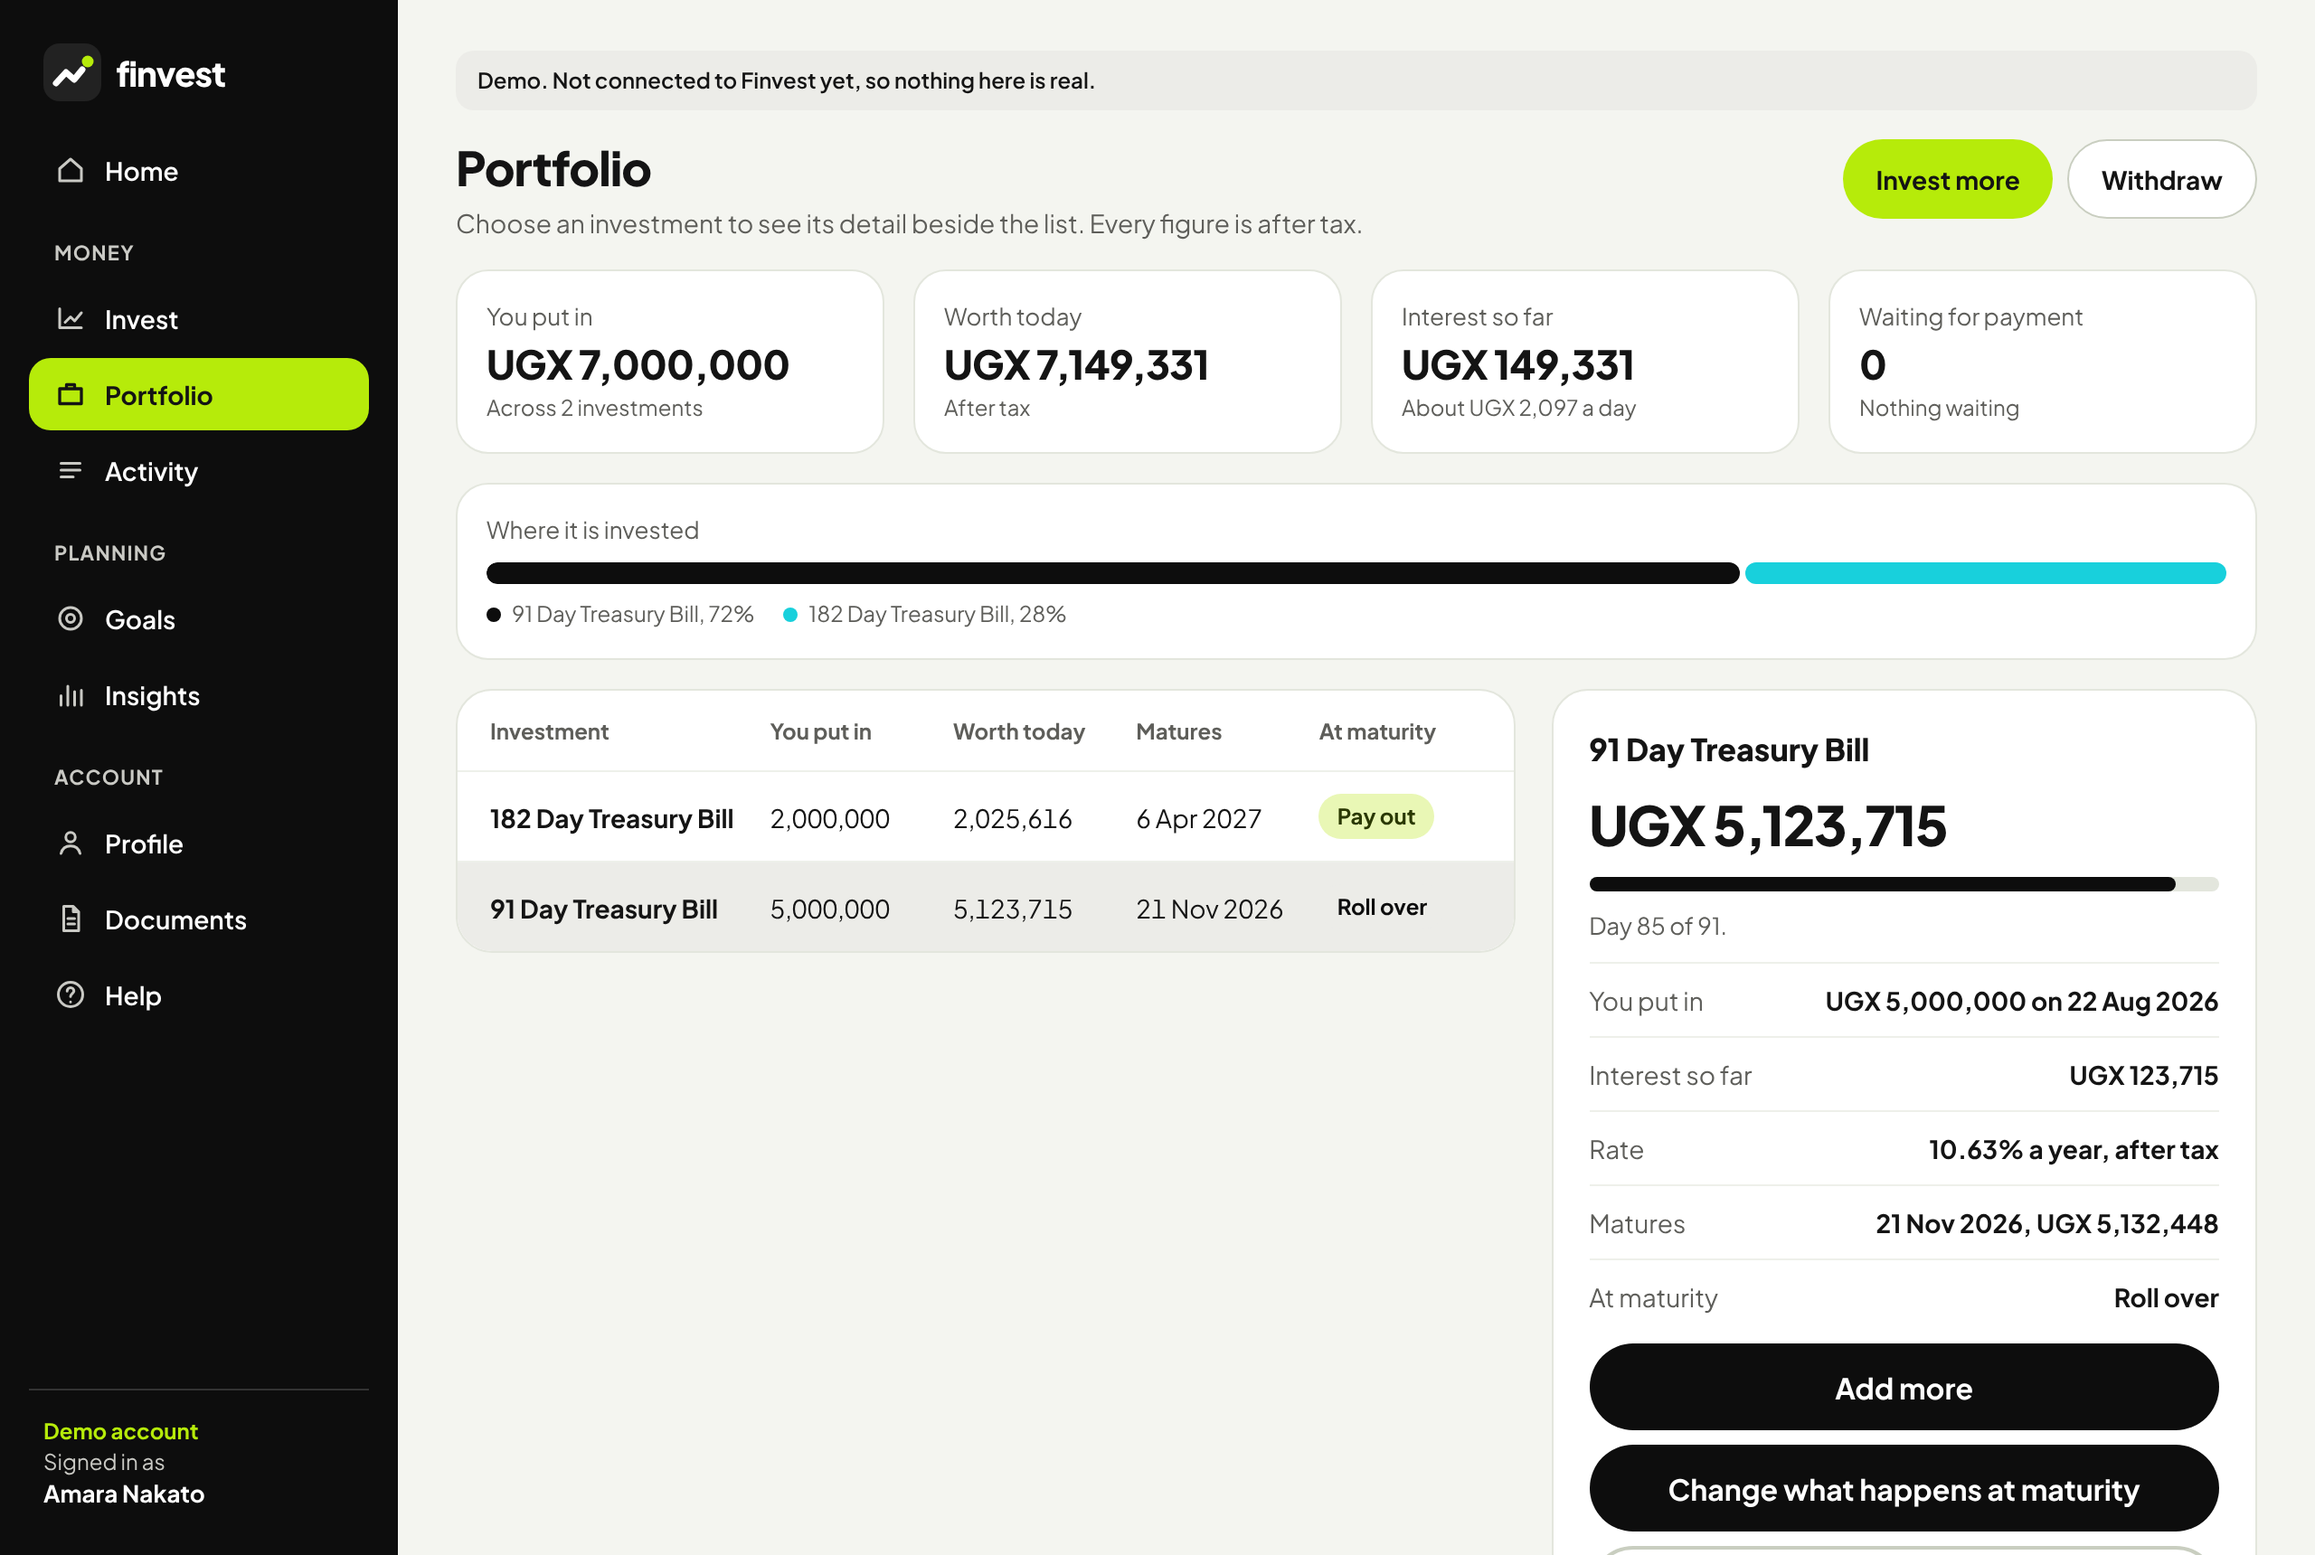
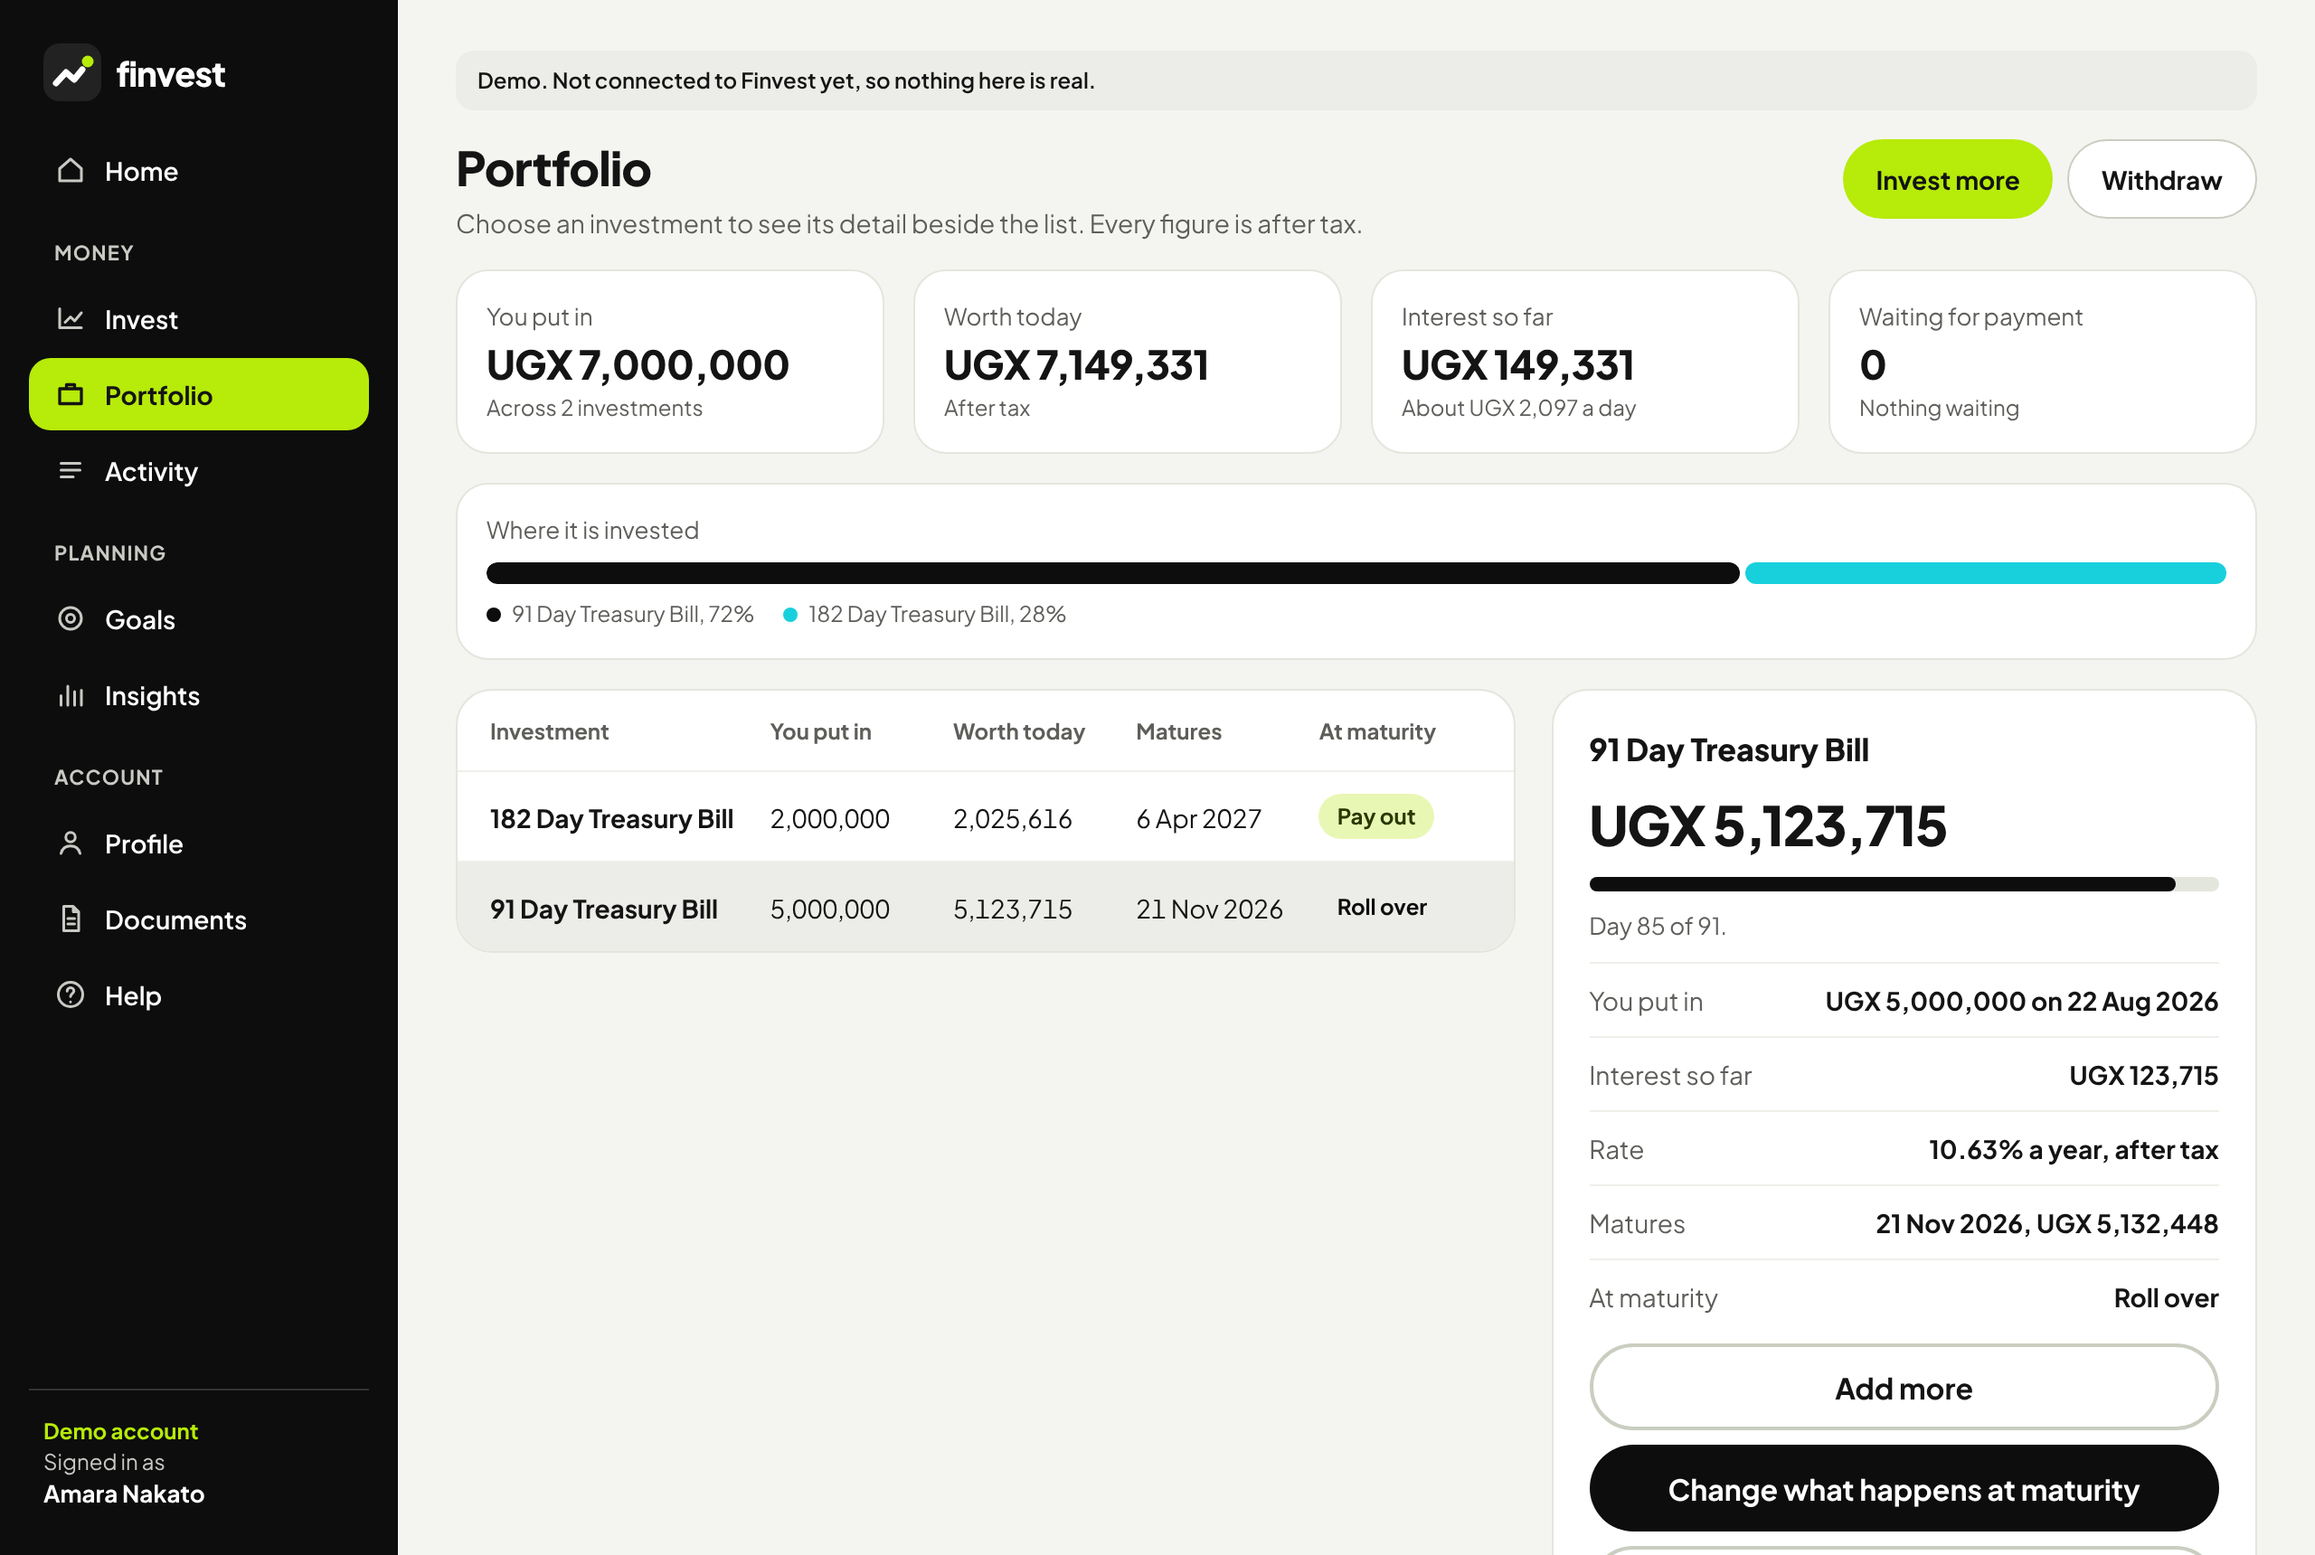
Start-align Export positions when the header wraps, and show its error
On a phone the button and its caption now line up under the heading.
Adds phone and wide shots of a failed export, and makes the Portfolio
panel's Add more secondary so the panel keeps one primary action.

Claude-Session: https://claude.ai/code/session_019e3LtEnNV9DD19PGNMNe41

Changed region(s): [[0.6875, 0.8628, 0.9688, 0.9244]]

diff --git a/apps/console/src/screens/investments/index.tsx b/apps/console/src/screens/investments/index.tsx
@@ -91,16 +91,16 @@ function ExportPositions({ api, save }: { api: InvestmentsApi; save: (file: Posi
     }
   }
   return (
-    <div className="flex max-w-[360px] flex-col items-end gap-1.5">
+    <div className="flex max-w-[360px] flex-col items-start gap-1.5 sm:items-end">
       <Button variant="secondary" disabled={busy} onClick={() => void run()}>
         {busy ? "Preparing the positions" : "Export positions"}
       </Button>
       {error ? (
-        <p role="alert" className="m-0 text-right text-sm font-bold text-danger">
+        <p role="alert" className="m-0 text-sm font-bold text-danger sm:text-right">
           {error}
         </p>
       ) : (
-        <p className="m-0 text-right text-sm text-muted">Every running investment, as a CSV file.</p>
+        <p className="m-0 text-sm text-muted sm:text-right">Every running investment, as a CSV file.</p>
       )}
     </div>
   );

diff --git a/apps/client/src/app/(app)/portfolio.tsx b/apps/client/src/app/(app)/portfolio.tsx
@@ -244,7 +244,7 @@ function Detail({ investment, onOpen }: { investment: Investment; onOpen: (inves
           <Button label="Pay to start" height={48} onPress={() => router.push(`/pay/${investment.id}`)} testID="detail-pay" />
         ) : null}
         {investment.status === "active" && !investment.withdrawalRequestedAt ? (
-          <Button label="Add more" height={48} onPress={() => router.push(`/invest/${encodeURIComponent(investment.productCode)}`)} testID="detail-add-more" />
+          <Button label="Add more" variant="secondary" height={48} onPress={() => router.push(`/invest/${encodeURIComponent(investment.productCode)}`)} testID="detail-add-more" />
         ) : null}
         {investment.canChangeMaturity ? (
           <Button label="Change what happens at maturity" height={48} onPress={() => router.push(`/investment/maturity/${investment.id}`)} testID="detail-maturity" />

diff --git a/apps/console/docs/screenshots/export-positions/README.md b/apps/console/docs/screenshots/export-positions/README.md
@@ -1,11 +1,21 @@
 # Export positions on Investments
 
 Console, sample data, phone (390 wide) and wide (1280 wide). The button downloads
-`finvest-positions-<day>.csv`. If the export fails, the reason shows under the button in red
-(covered by `src/screens/investments/index.test.tsx`).
+`finvest-positions-<day>.csv`. If the export fails, the reason shows under the button in red. The failed shots were made by
+taking away the sample export's file in the browser.
 
 ## Phone
+
+### Default: under the heading when the header wraps
 ![phone](phone-01-investments-export-positions.png)
 
+### The export failed
+![phone failed](phone-02-export-failed.png)
+
 ## Wide
+
+### Default
 ![wide](wide-01-investments-export-positions.png)
+
+### The export failed
+![wide failed](wide-02-export-failed.png)
